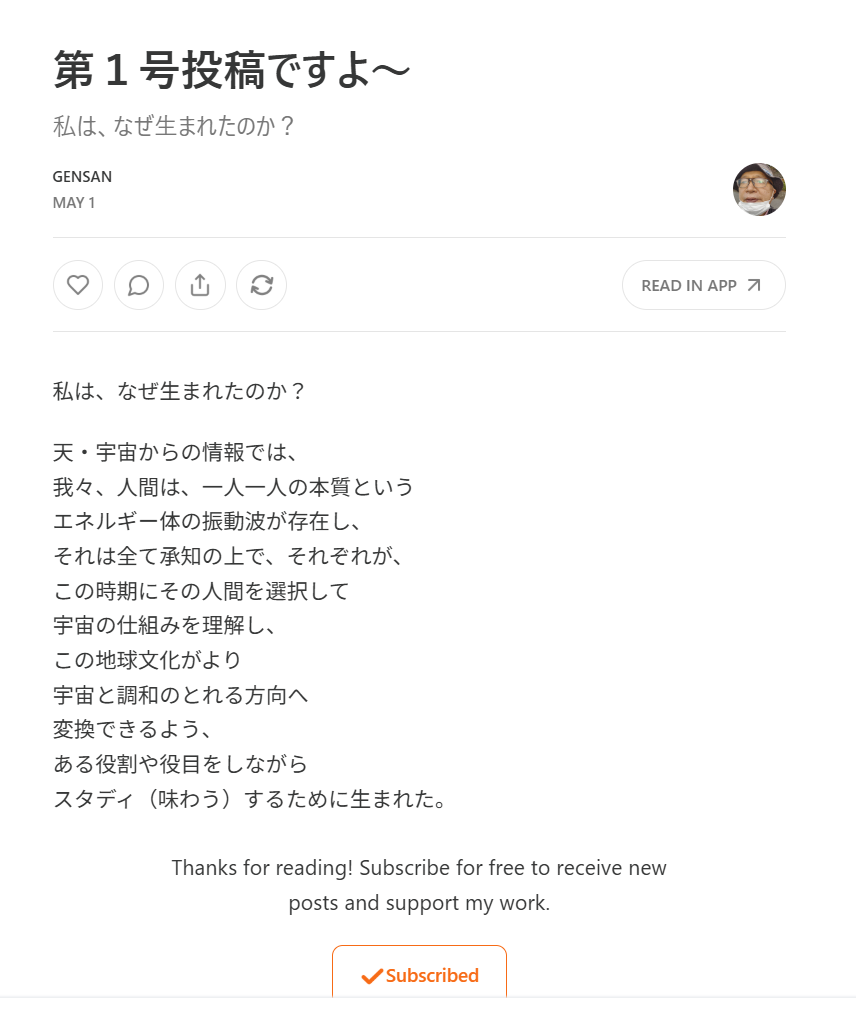
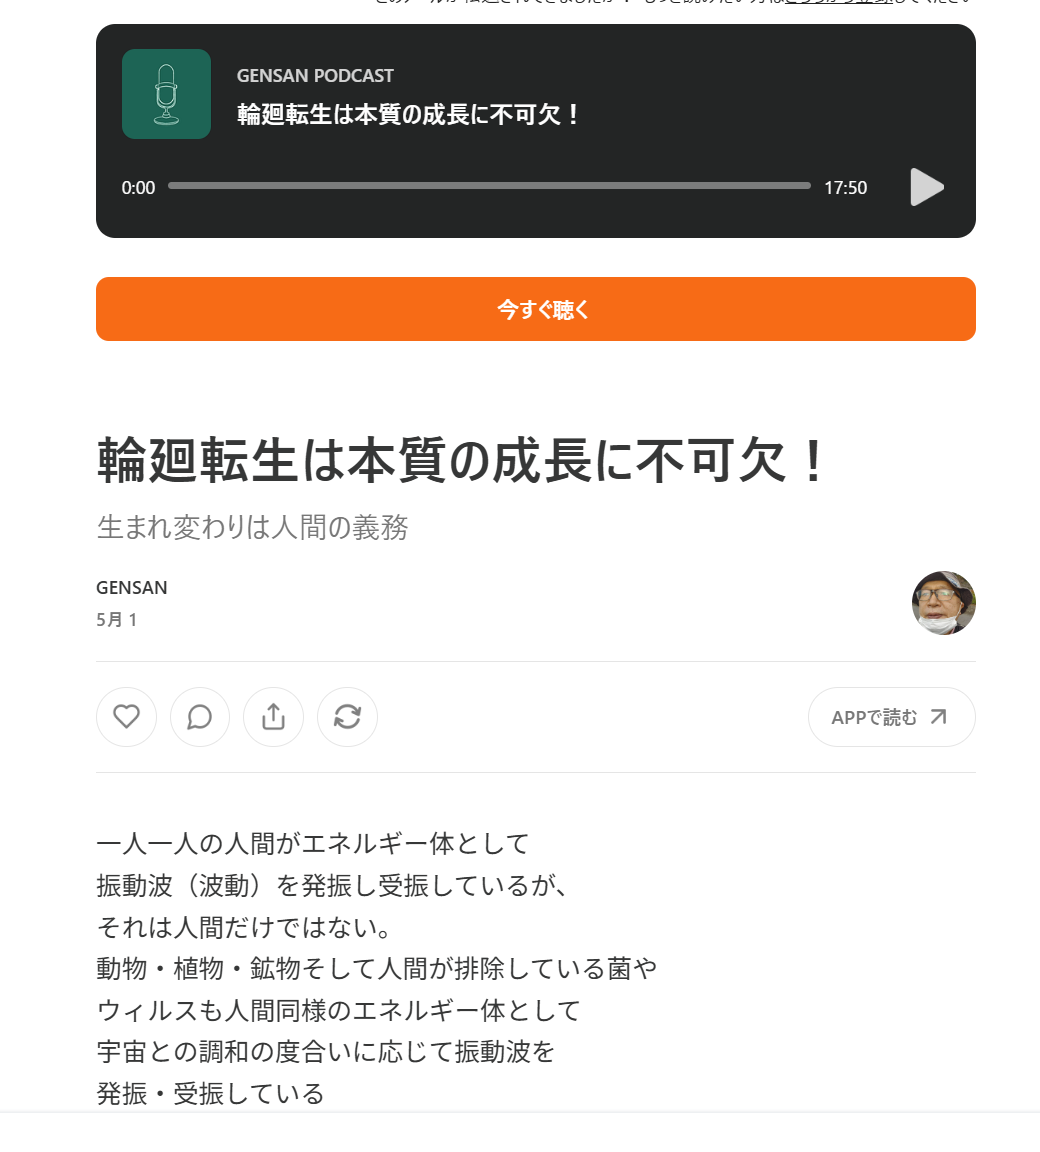
Update sample image to podcast version and fix caption text

diff --git a/components/portal/portal-hero.tsx b/components/portal/portal-hero.tsx
@@ -68,7 +68,7 @@ export function PortalHero() {
           </div>
           <div className="mb-8 w-full max-w-[480px]">
             <p className="font-round text-[0.82rem] text-portal-text-soft tracking-[0.04em] mb-3">
-              下記のようなメールが毎日届きます
+              下記のようなPodcastを含めたメールが届きます
             </p>
             <div className="rounded-[12px] overflow-hidden border border-[#EEE] shadow-sm">
               <Image
